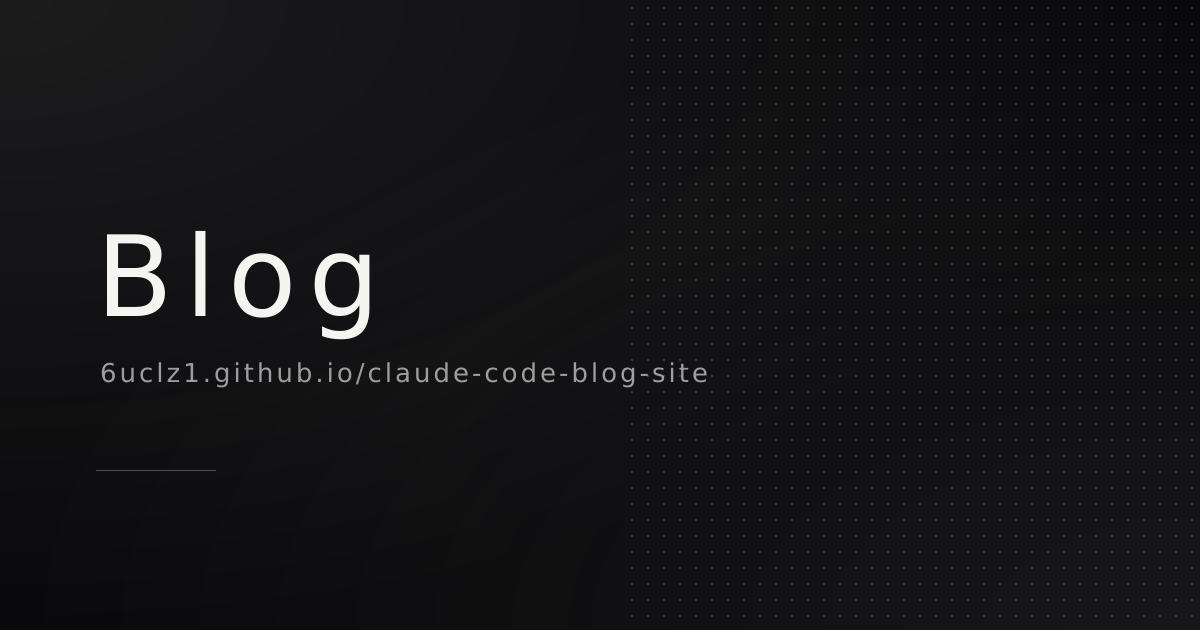
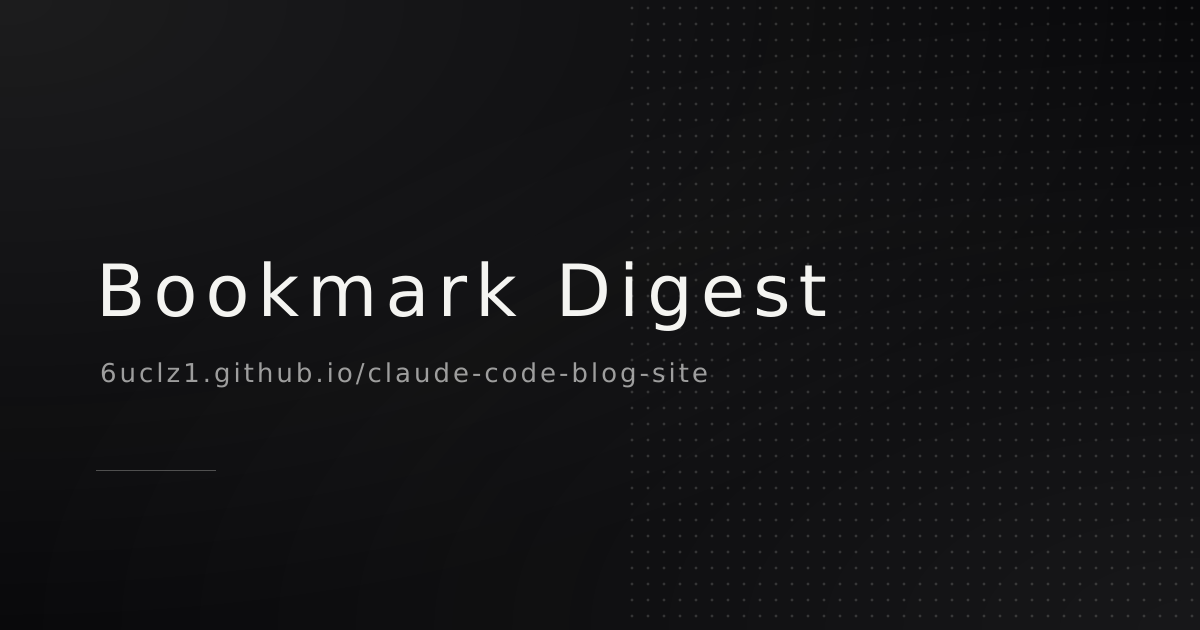
サイト名を Bookmark Digest に変更
「Blog」「シンプルなブログ」という汎用的な名前では、はてなブックマーク
した記事を日次で要約するというサイトの中身が伝わらないため、名前と説明を
実態に合わせて変更する。

- src/site.ts の title / description を変更。ヘッダー・一覧見出し・
  <title>・OGPメタ・Atomフィードのチャンネル名はすべて SITE を読んで
  いるので自動で追従する
- scripts/generate_og_image.mjs のタイトルを差し替え、1行に収まるよう
  font-size 112→72 / letter-spacing 12→8 に縮小して public/og.png を再生成
- README の見出しとタグラインを更新

astro.config.mjs の site / base と package.json の name は URL と
パッケージ名なので変更していない（公開済みURLは不変）。

Claude-Session: https://claude.ai/code/session_011getdRYPQkaxFpZ9xTf1KL

Changed region(s): [[0.0617, 0.3619, 0.4317, 0.5429], [0.4625, 0.3921, 0.6783, 0.5429]]

diff --git a/src/site.ts b/src/site.ts
@@ -1,8 +1,8 @@
 // Jekyll の _config.yml にあったサイト情報。
 // title / description はサイトの見せ方そのものなので、変えるならオーナーの判断で。
 export const SITE = {
-  title: 'Blog',
-  description: 'シンプルなブログ',
+  title: 'Bookmark Digest',
+  description: 'はてなブックマークした記事の日次要約',
   author: '6uclz1',
   lang: 'ja',
   /** feed.xml に載せる記事数（jekyll-feed の posts_limit 相当） */

diff --git a/README.md b/README.md
@@ -1,6 +1,6 @@
-# Claude Code Blog Site
+# Bookmark Digest
 
-Astro で構築された日本語のブログサイトです。モダンなデザインとページネーション機能、シンタックスハイライト機能を備えています。
+はてなブックマークでブックマークした記事を毎日まとめて要約する、Astro で構築された日本語のサイトです。Gemini による自動要約と週次のふりかえり記事を、ページネーション・全文検索つきで配信しています。
 
 ## 🚀 機能
 
